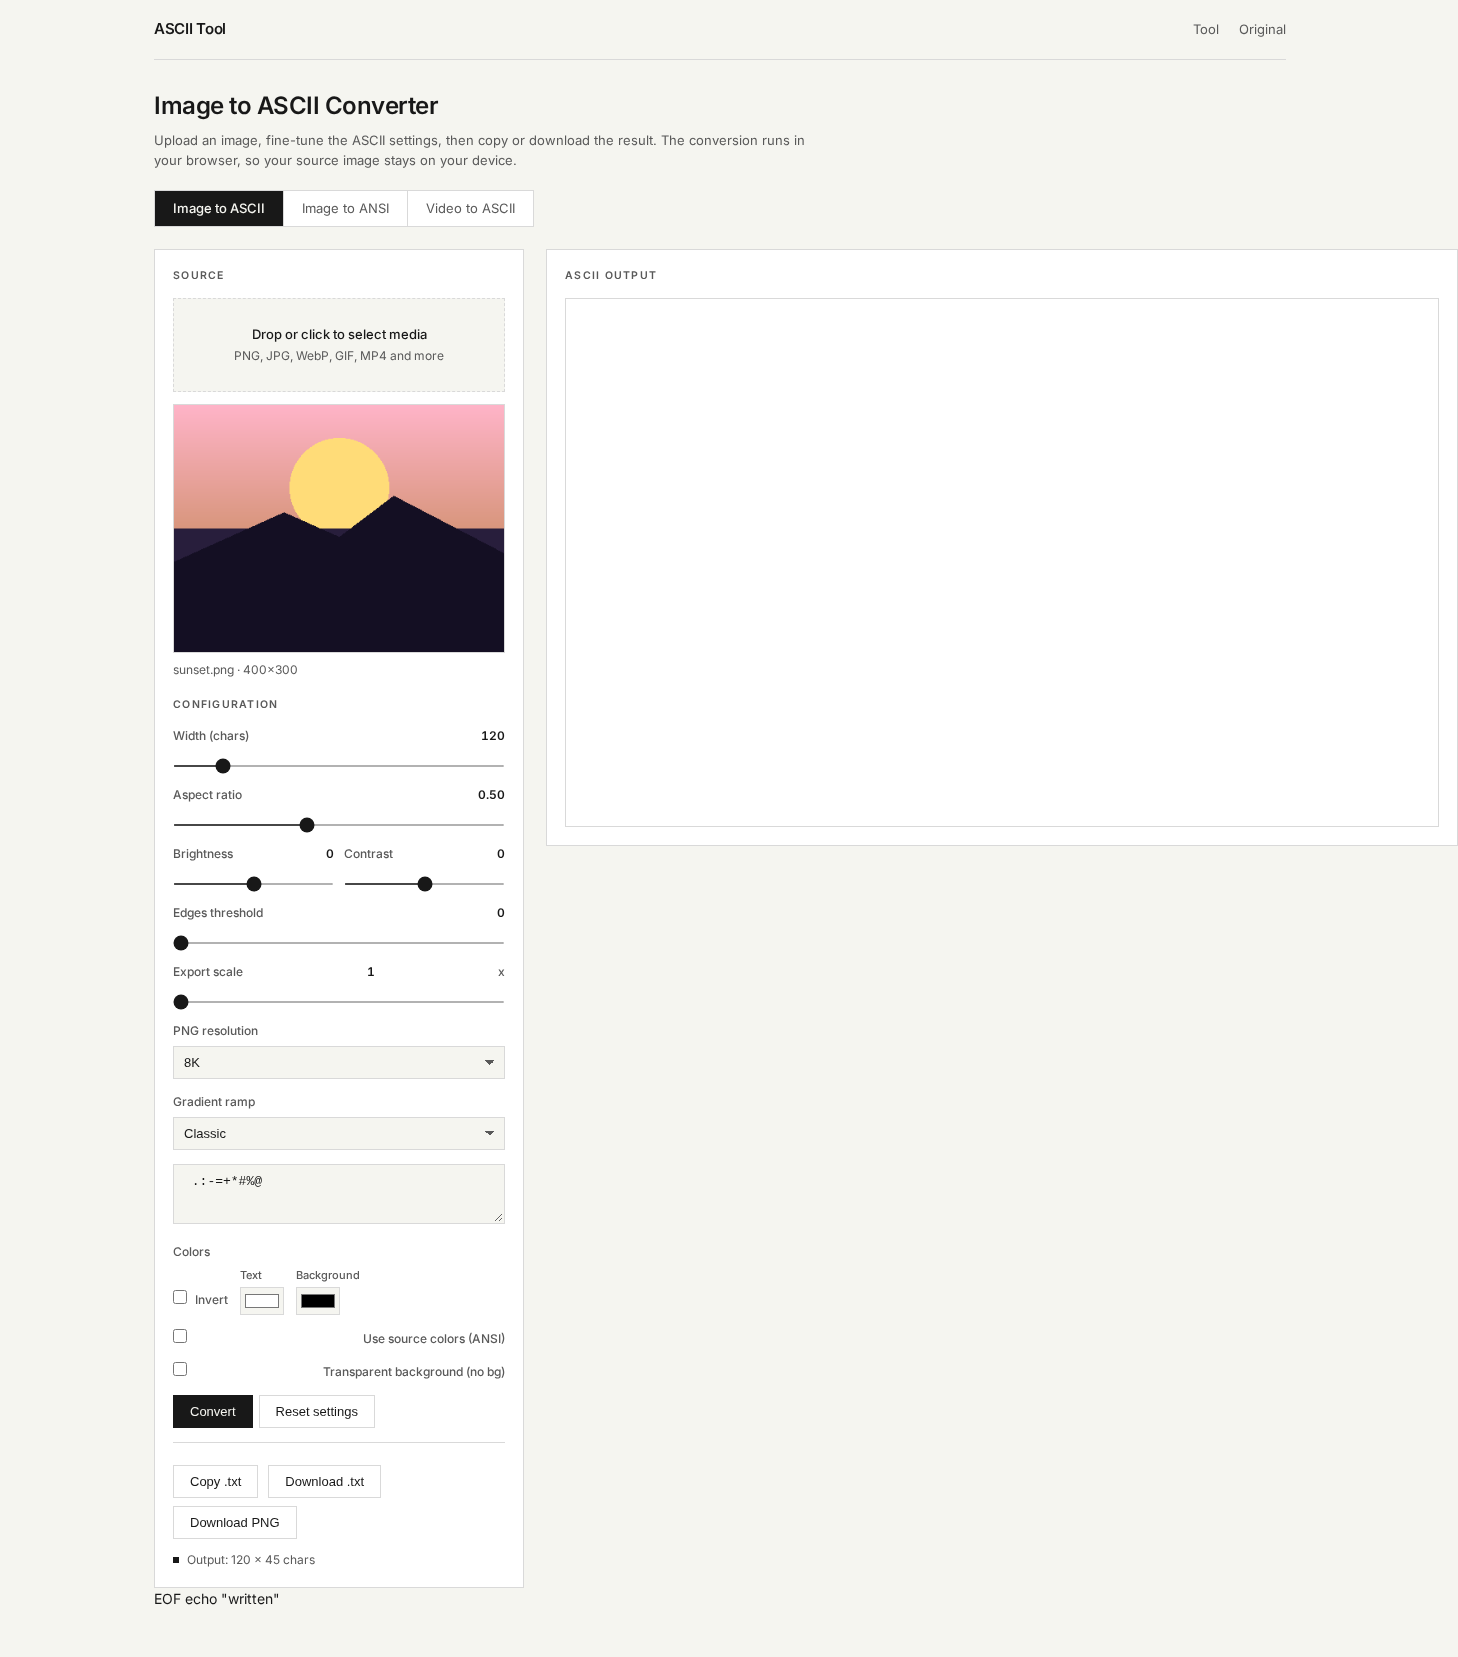
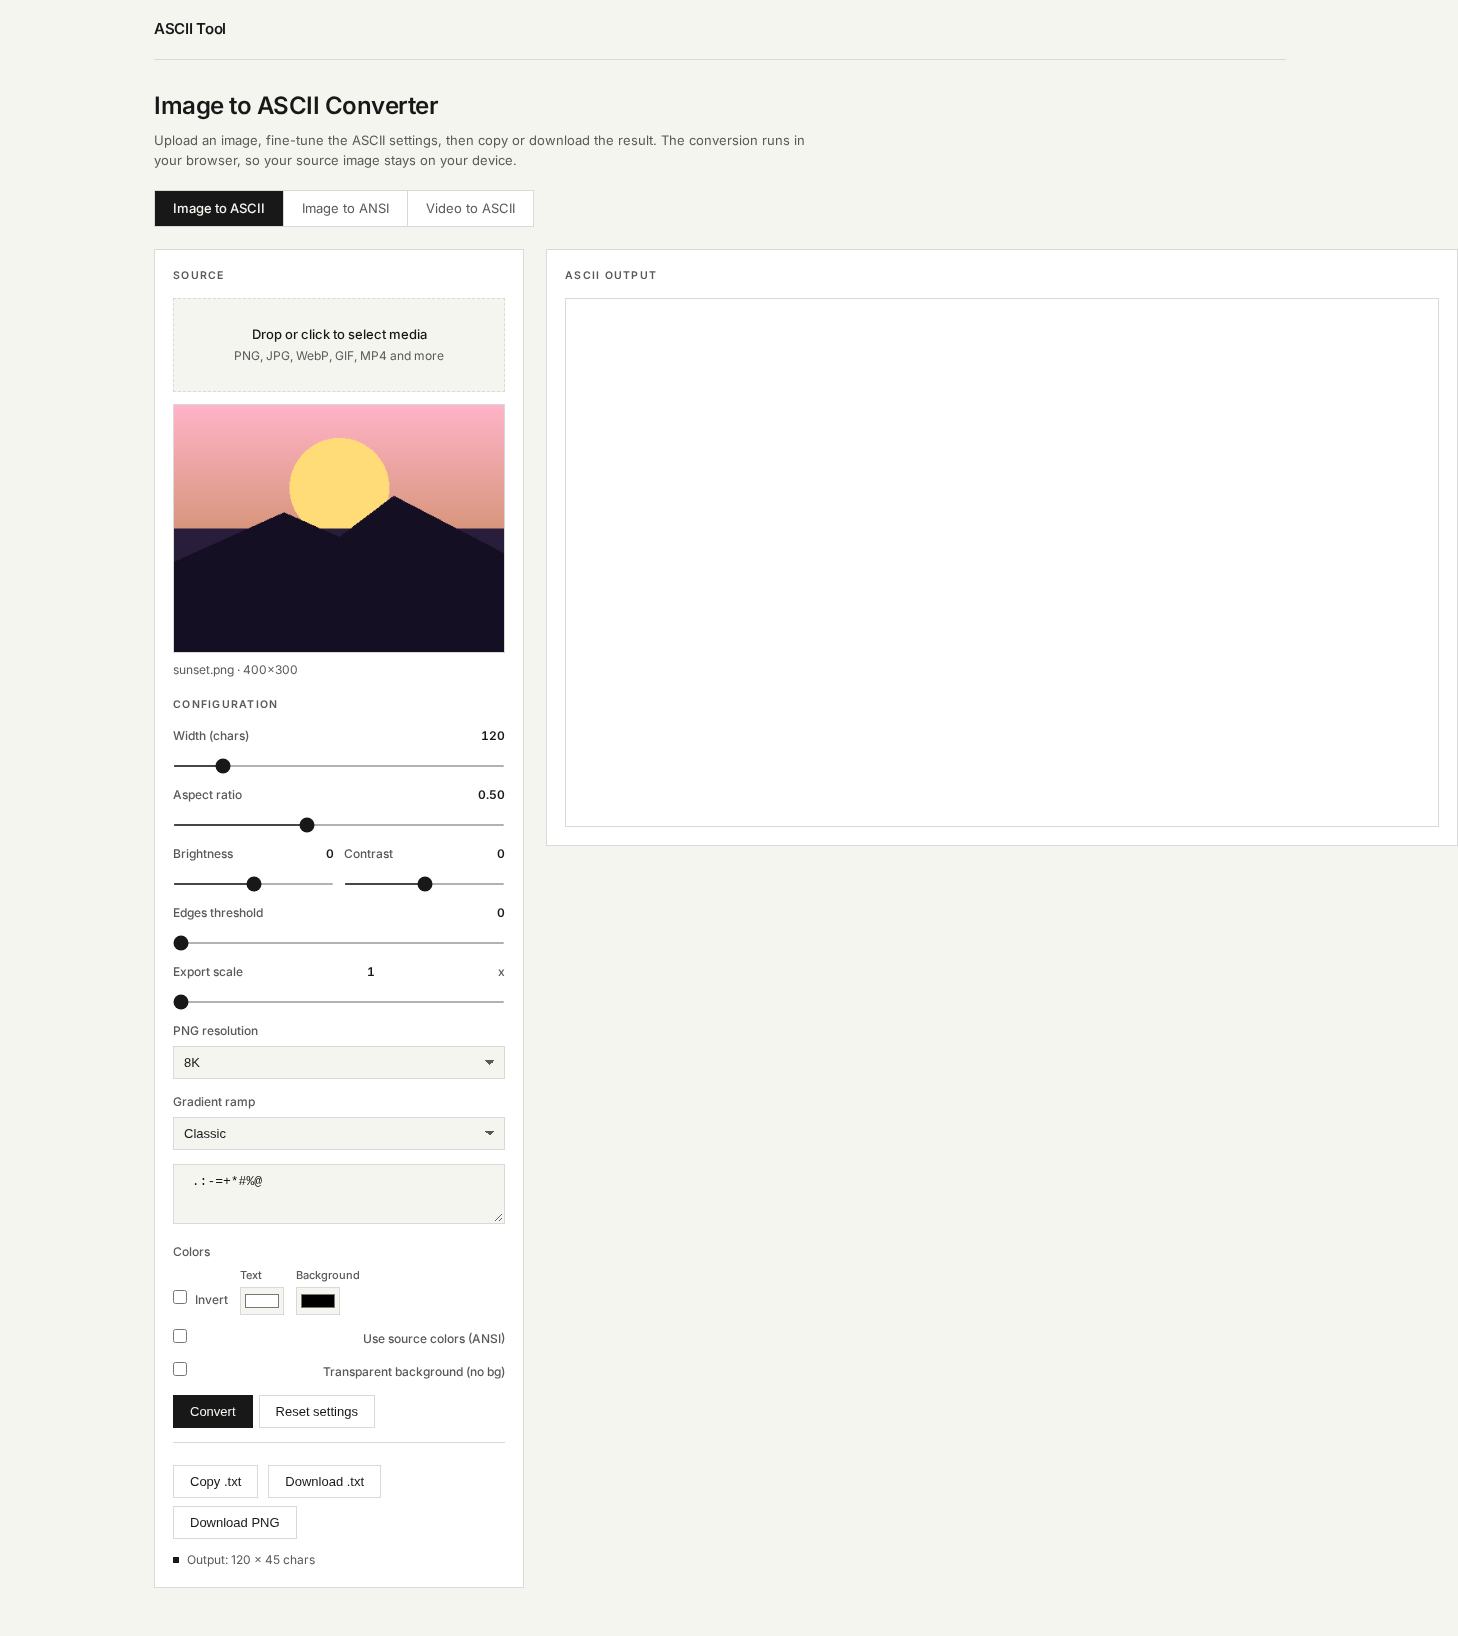
Remove nav links and leftover artifact; refresh screenshots

diff --git a/index.html b/index.html
@@ -467,15 +467,9 @@
     <div class="wrap">
       <nav>
         <div class="logo">ASCII Tool</div>
-        <div class="navlinks">
-          <a href="#tool">Tool</a>
-          <a href="https://asciitool.com" target="_blank" rel="noopener"
-            >Original</a
-          >
-        </div>
       </nav>
 
-      <h1 id="tool">Image to ASCII Converter</h1>
+      <h1>Image to ASCII Converter</h1>
       <p class="sub">
         Upload an image, fine-tune the ASCII settings, then copy or download the
         result. The conversion runs in your browser, so your source image stays
@@ -1194,4 +1188,3 @@
     </script>
   </body>
 </html>
-EOF echo "written"
